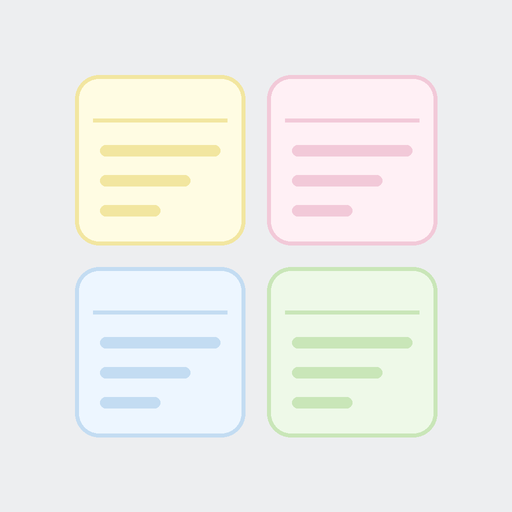
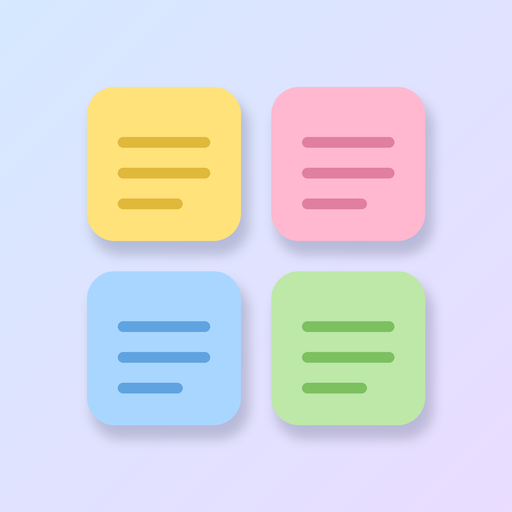
홈 화면 아이콘을 새 디자인으로 변경

diff --git a/sw.js b/sw.js
@@ -1,5 +1,5 @@
 // 오프라인에서도 열리도록 앱 파일을 캐시 (메모 내용은 기기 저장소에 따로 있음)
-const CACHE = "multimemo-v2";
+const CACHE = "multimemo-v3";
 const FILES = ["./", "index.html", "manifest.json", "icon-180.png", "icon-512.png"];
 self.addEventListener("install", e => e.waitUntil(caches.open(CACHE).then(c => c.addAll(FILES))));
 self.addEventListener("activate", e => e.waitUntil(

diff --git a/index.html b/index.html
@@ -8,7 +8,7 @@
 <meta name="apple-mobile-web-app-status-bar-style" content="default">
 <meta name="apple-mobile-web-app-title" content="멀티 메모">
 <meta name="theme-color" content="#EDEEF0">
-<link rel="apple-touch-icon" href="icon-180.png">
+<link rel="apple-touch-icon" href="icon-180.png?v=2">
 <link rel="manifest" href="manifest.json">
 <title>멀티 메모</title>
 <style>
